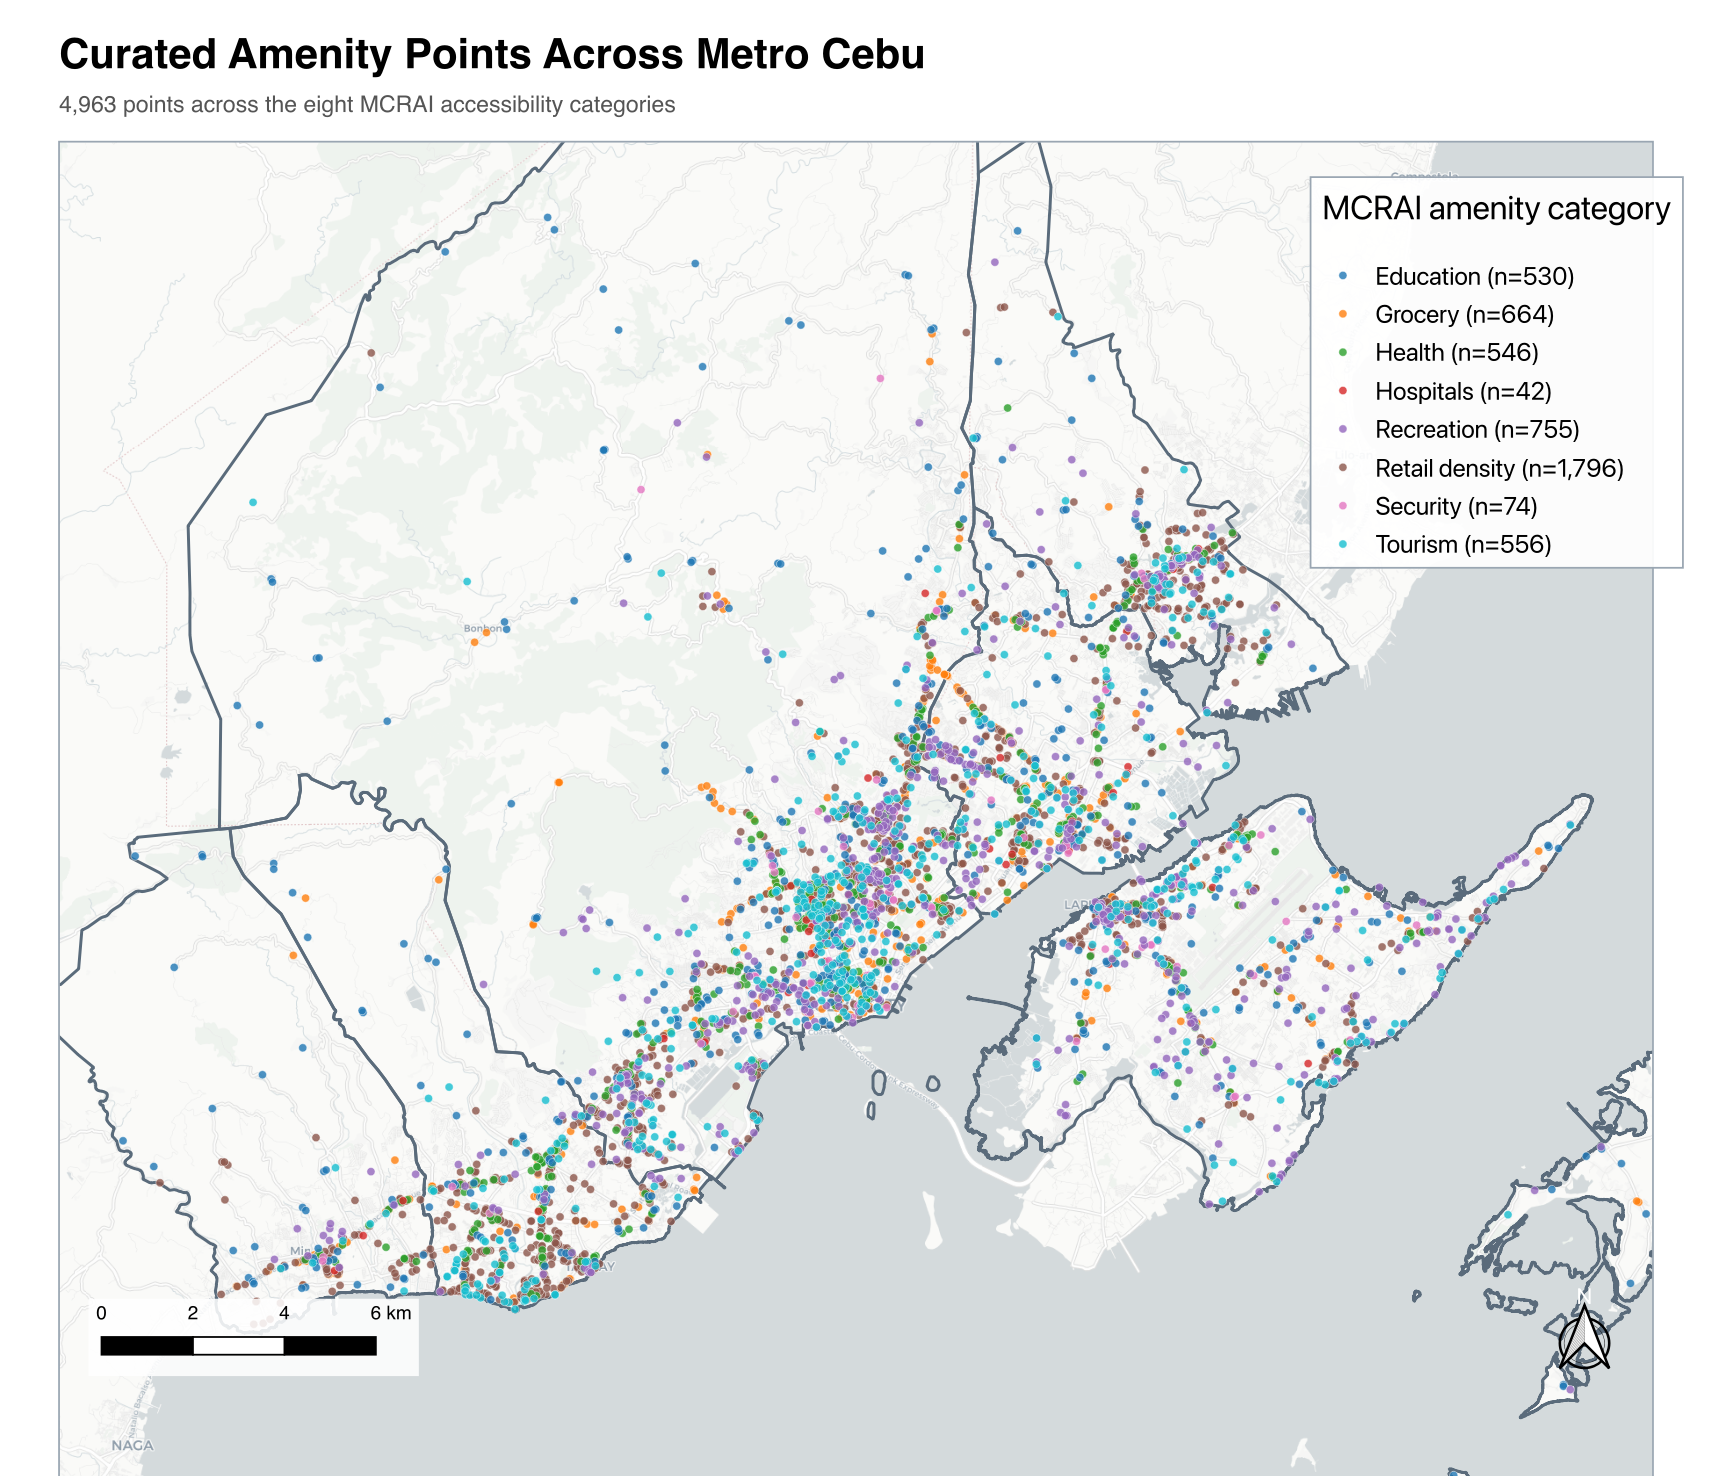
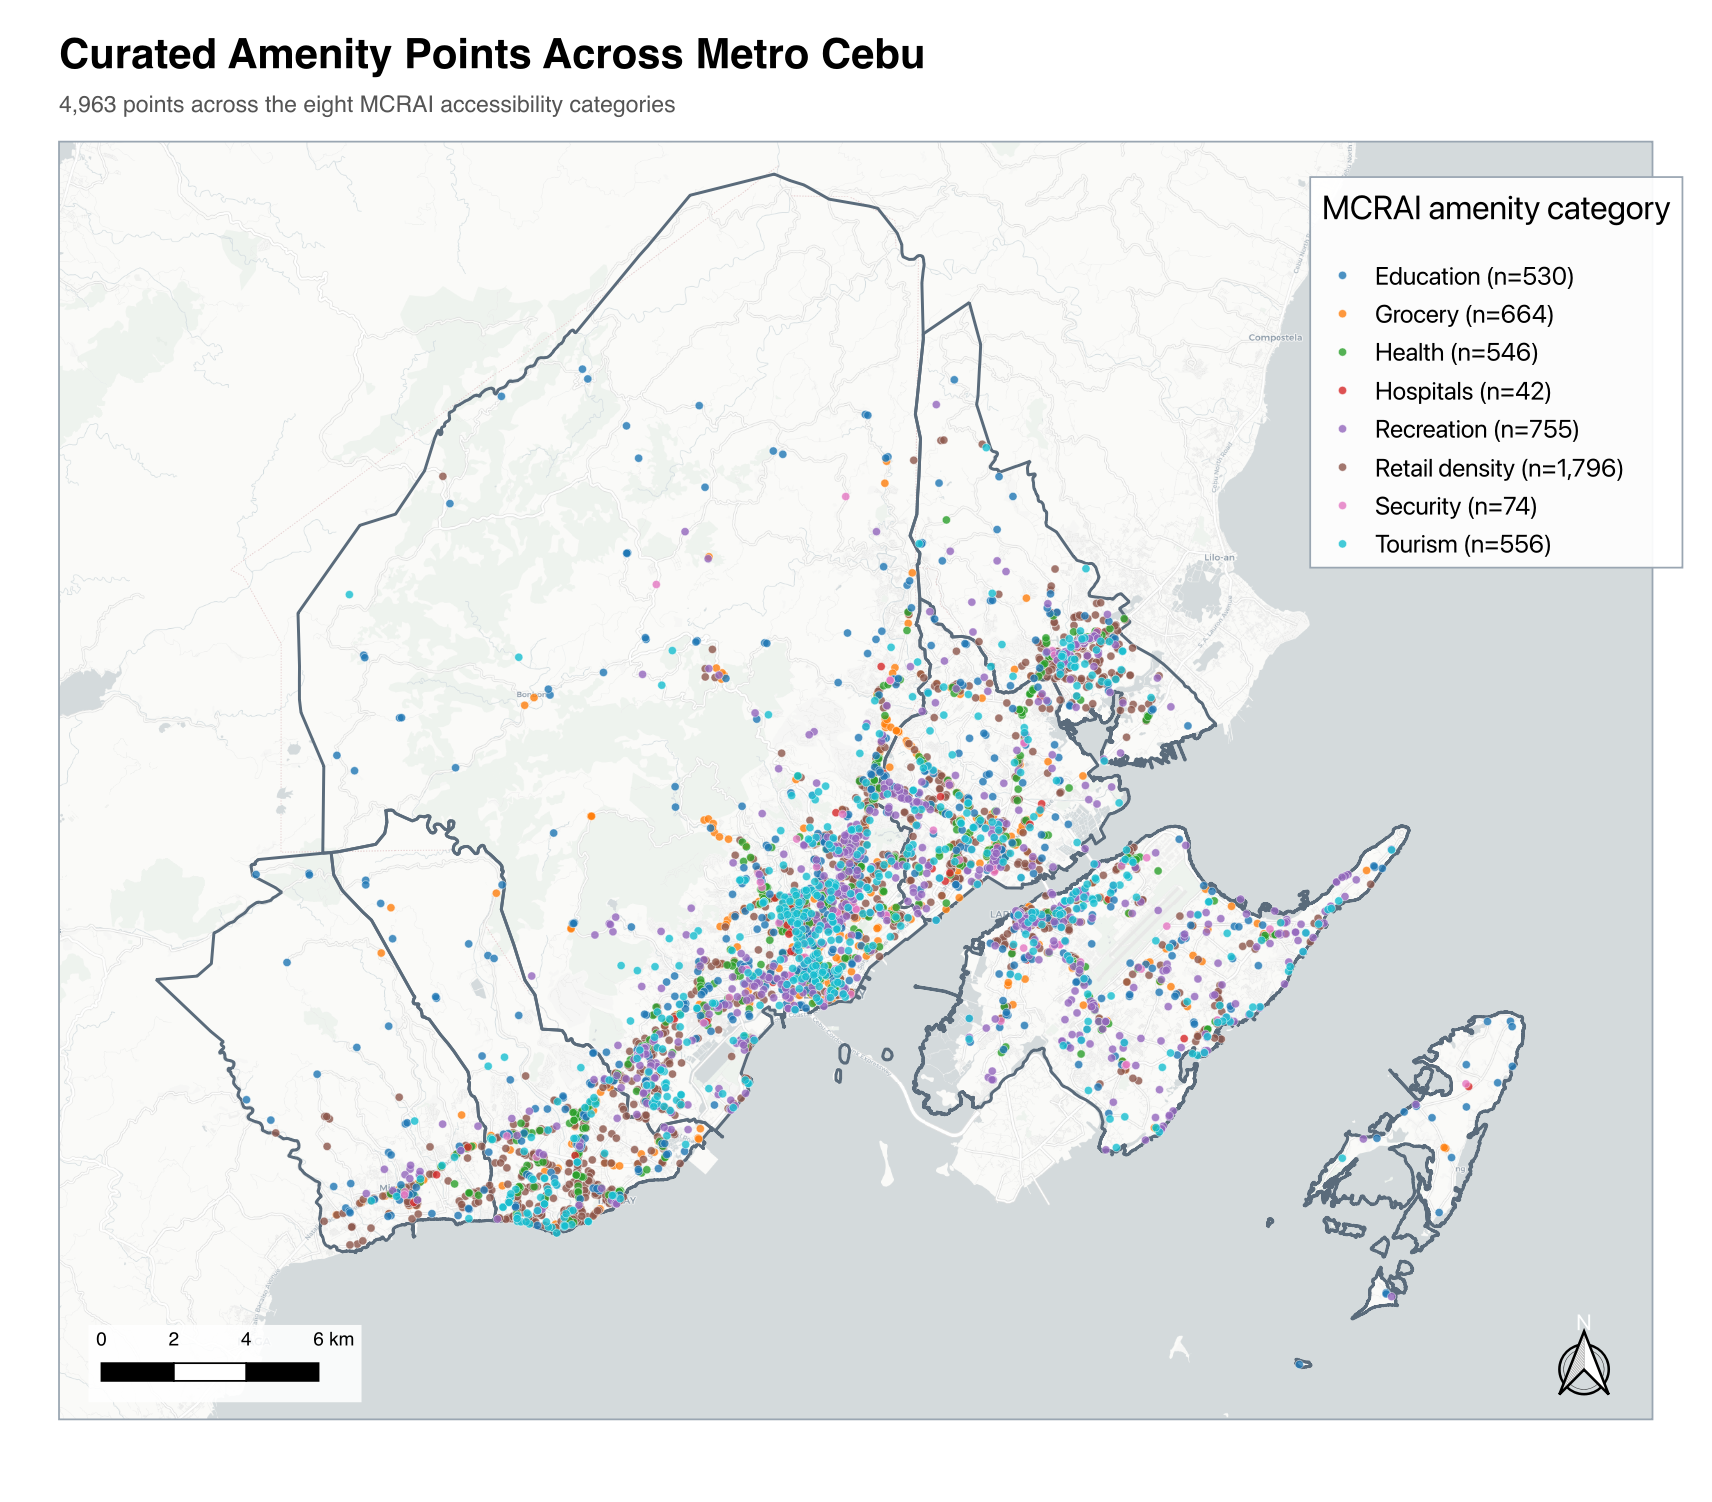
Use author-selected canvas framing for the three QGIS map renderers
Replace the auto-computed extents in render_study_area/listings/amenities
_map_qgis.py with a shared USER_BBOX captured from the QGIS canvas via the
MCP bridge. The map frame is sized to the bbox aspect so the author's
framing is honored exactly (all six LGUs, Olango cropped) without
distortion. Re-rendered the three PNGs.

Claude-Session: https://claude.ai/code/session_01GSgwD9wCKyDKNd8SRkTfNi

diff --git a/thesis_main/webapp/scripts/render_study_area_map_qgis.py b/thesis_main/webapp/scripts/render_study_area_map_qgis.py
@@ -30,6 +30,11 @@ OUT = os.path.abspath(os.path.join(HERE, "..", "..", "EDA", "plots", "study_area
 
 WEBMERC = "EPSG:3857"
 
+# user-selected map framing (EPSG:4326) captured from the QGIS canvas 2026-06-30;
+# shared by all three Metro Cebu maps. xmin, ymin, xmax, ymax.
+USER_BBOX = (123.71034639970264, 10.189215977449143,
+             124.10600490419463, 10.501316464439972)
+
 LGU_COLORS = {
     "Cebu City":      "#9ecae1",
     "Mandaue City":   "#bcbddc",
@@ -81,27 +86,24 @@ def main():
         if lyr.isValid():
             project.addMapLayer(lyr)
 
-    # keep the full LGU extent on three sides (all six LGUs complete) but clamp
-    # the eastern edge just past the listings to drop the empty Olango islets.
+    # user-selected framing captured from the QGIS canvas (EPSG:4326): all six
+    # LGUs in view with the eastern Olango islands cropped off.
     webmerc = QgsCoordinateReferenceSystem(WEBMERC)
-    full = QgsCoordinateTransform(lgu.crs(), webmerc, project).transformBoundingBox(lgu.extent())
-    listings = json.load(open(os.path.join(DATA, "listings.json")))
-    max_lon = max(r["longitude"] for r in listings)
-    ll = QgsCoordinateTransform(QgsCoordinateReferenceSystem("EPSG:4326"), webmerc, project)
-    east_cap = ll.transform(max_lon, sum(r["latitude"] for r in listings) / len(listings)).x()
-    mx, my = full.width() * 0.03, full.height() * 0.05
-    ext = QgsRectangle(full.xMinimum() - mx, full.yMinimum() - my,
-                       east_cap + full.width() * 0.04, full.yMaximum() + my)
+    ll2wm = QgsCoordinateTransform(QgsCoordinateReferenceSystem("EPSG:4326"), webmerc, project)
+    ext = ll2wm.transformBoundingBox(QgsRectangle(*USER_BBOX))
 
     layout = QgsPrintLayout(project)
     layout.initializeDefaults()
     page = layout.pageCollection().pages()[0]
-    PW, PH = 300, 230
+    # size the map frame to the captured bbox aspect so nothing framed is cropped
+    MAP_W, TOP, BOT = 270, 24, 14
+    MAP_H = MAP_W * ext.height() / ext.width()
+    PW, PH = MAP_W + 20, MAP_H + TOP + BOT
     page.setPageSize(QgsLayoutSize(PW, PH, QgsUnitTypes.LayoutMillimeters))
 
     m = QgsLayoutItemMap(layout)
-    m.attemptMove(QgsLayoutPoint(10, 24, QgsUnitTypes.LayoutMillimeters))
-    m.attemptResize(QgsLayoutSize(PW - 20, PH - 34, QgsUnitTypes.LayoutMillimeters))
+    m.attemptMove(QgsLayoutPoint(10, TOP, QgsUnitTypes.LayoutMillimeters))
+    m.attemptResize(QgsLayoutSize(MAP_W, MAP_H, QgsUnitTypes.LayoutMillimeters))
     m.setExtent(ext)
     m.setLayers([lgu, basemap])
     m.setBackgroundColor(QColor("white"))

diff --git a/thesis_main/webapp/scripts/render_amenities_map_qgis.py b/thesis_main/webapp/scripts/render_amenities_map_qgis.py
@@ -33,6 +33,11 @@ TMP_GEOJSON = "/tmp/amenity_points.geojson"
 
 WEBMERC = "EPSG:3857"
 
+# user-selected map framing (EPSG:4326) captured from the QGIS canvas 2026-06-30;
+# shared by all three Metro Cebu maps. xmin, ymin, xmax, ymax.
+USER_BBOX = (123.71034639970264, 10.189215977449143,
+             124.10600490419463, 10.501316464439972)
+
 # data category value -> (display label, color). tab10-style qualitative palette.
 CATEGORIES = [
     ("Education",   "Education",      "#1f77b4"),
@@ -97,27 +102,24 @@ def main():
         if lyr.isValid():
             project.addMapLayer(lyr)
 
-    # frame to the amenity-point extent, then clamp east edge to drop Olango
+    # user-selected framing captured from the QGIS canvas (EPSG:4326): all six
+    # LGUs in view with the eastern Olango islands cropped off.
     webmerc = QgsCoordinateReferenceSystem(WEBMERC)
-    xform = QgsCoordinateTransform(pts.crs(), webmerc, project)
-    ext = xform.transformBoundingBox(pts.extent())
-    listings = json.load(open(os.path.join(DATA, "listings.json")))
-    max_lon = max(r["longitude"] for r in listings)
-    ll = QgsCoordinateTransform(QgsCoordinateReferenceSystem("EPSG:4326"), webmerc, project)
-    east_cap = ll.transform(max_lon, sum(r["latitude"] for r in listings) / len(listings)).x()
-    mx, my = ext.width() * 0.04, ext.height() * 0.06
-    ext = QgsRectangle(ext.xMinimum() - mx, ext.yMinimum() - my,
-                       east_cap + ext.width() * 0.04, ext.yMaximum() + my)
+    ll2wm = QgsCoordinateTransform(QgsCoordinateReferenceSystem("EPSG:4326"), webmerc, project)
+    ext = ll2wm.transformBoundingBox(QgsRectangle(*USER_BBOX))
 
     layout = QgsPrintLayout(project)
     layout.initializeDefaults()
     page = layout.pageCollection().pages()[0]
-    PW, PH = 290, 250
+    # size the map frame to the captured bbox aspect so nothing framed is cropped
+    MAP_W, TOP, BOT = 270, 24, 14
+    MAP_H = MAP_W * ext.height() / ext.width()
+    PW, PH = MAP_W + 20, MAP_H + TOP + BOT
     page.setPageSize(QgsLayoutSize(PW, PH, QgsUnitTypes.LayoutMillimeters))
 
     m = QgsLayoutItemMap(layout)
-    m.attemptMove(QgsLayoutPoint(10, 24, QgsUnitTypes.LayoutMillimeters))
-    m.attemptResize(QgsLayoutSize(PW - 20, PH - 34, QgsUnitTypes.LayoutMillimeters))
+    m.attemptMove(QgsLayoutPoint(10, TOP, QgsUnitTypes.LayoutMillimeters))
+    m.attemptResize(QgsLayoutSize(MAP_W, MAP_H, QgsUnitTypes.LayoutMillimeters))
     m.setExtent(ext)
     m.setLayers([pts, lgu, basemap])
     m.setBackgroundColor(QColor("white"))

diff --git a/thesis_main/webapp/scripts/render_listings_map_qgis.py b/thesis_main/webapp/scripts/render_listings_map_qgis.py
@@ -34,6 +34,11 @@ TMP_GEOJSON = "/tmp/listings_points.geojson"
 
 WEBMERC = "EPSG:3857"
 
+# user-selected map framing (EPSG:4326) captured from the QGIS canvas 2026-06-30;
+# shared by all three Metro Cebu maps. xmin, ymin, xmax, ymax.
+USER_BBOX = (123.71034639970264, 10.189215977449143,
+             124.10600490419463, 10.501316464439972)
+
 STRATA = [
     ("Condominium", "#1f6fb2"),
     ("Houses",      "#e07b39"),
@@ -114,27 +119,28 @@ def main():
         if lyr.isValid():
             project.addMapLayer(lyr)
 
-    # extent from the LISTINGS layer (in web mercator), with margin: this crops
-    # out the eastern Olango island group, which carries no listings.
+    # user-selected framing captured from the QGIS canvas (EPSG:4326): all six
+    # LGUs in view with the eastern Olango islands cropped off.
     from qgis.core import QgsCoordinateTransform
-    xform = QgsCoordinateTransform(pts.crs(), QgsCoordinateReferenceSystem(WEBMERC), project)
-    ext = xform.transformBoundingBox(pts.extent())
-    mx, my = ext.width() * 0.05, ext.height() * 0.06
-    ext = QgsRectangle(ext.xMinimum() - mx, ext.yMinimum() - my,
-                       ext.xMaximum() + mx, ext.yMaximum() + my)
+    ll2wm = QgsCoordinateTransform(QgsCoordinateReferenceSystem("EPSG:4326"),
+                                   QgsCoordinateReferenceSystem(WEBMERC), project)
+    ext = ll2wm.transformBoundingBox(QgsRectangle(*USER_BBOX))
 
     # ---- print layout ----
     layout = QgsPrintLayout(project)
     layout.initializeDefaults()
     page = layout.pageCollection().pages()[0]
-    PW, PH = 290, 250  # mm, landscape-ish to fit Metro Cebu
+    # size the map frame to the captured bbox aspect so nothing framed is cropped
+    MAP_W, TOP, BOT = 270, 24, 14
+    MAP_H = MAP_W * ext.height() / ext.width()
+    PW, PH = MAP_W + 20, MAP_H + TOP + BOT
     page.setPageSize(QgsLayoutSize(PW, PH, QgsUnitTypes.LayoutMillimeters))
 
     # map item
     m = QgsLayoutItemMap(layout)
     m.setRect(0, 0, 1, 1)
-    m.attemptMove(QgsLayoutPoint(10, 24, QgsUnitTypes.LayoutMillimeters))
-    m.attemptResize(QgsLayoutSize(PW - 20, PH - 34, QgsUnitTypes.LayoutMillimeters))
+    m.attemptMove(QgsLayoutPoint(10, TOP, QgsUnitTypes.LayoutMillimeters))
+    m.attemptResize(QgsLayoutSize(MAP_W, MAP_H, QgsUnitTypes.LayoutMillimeters))
     m.setExtent(ext)
     m.setLayers([pts, lgu, basemap])
     m.setBackgroundColor(QColor("white"))
